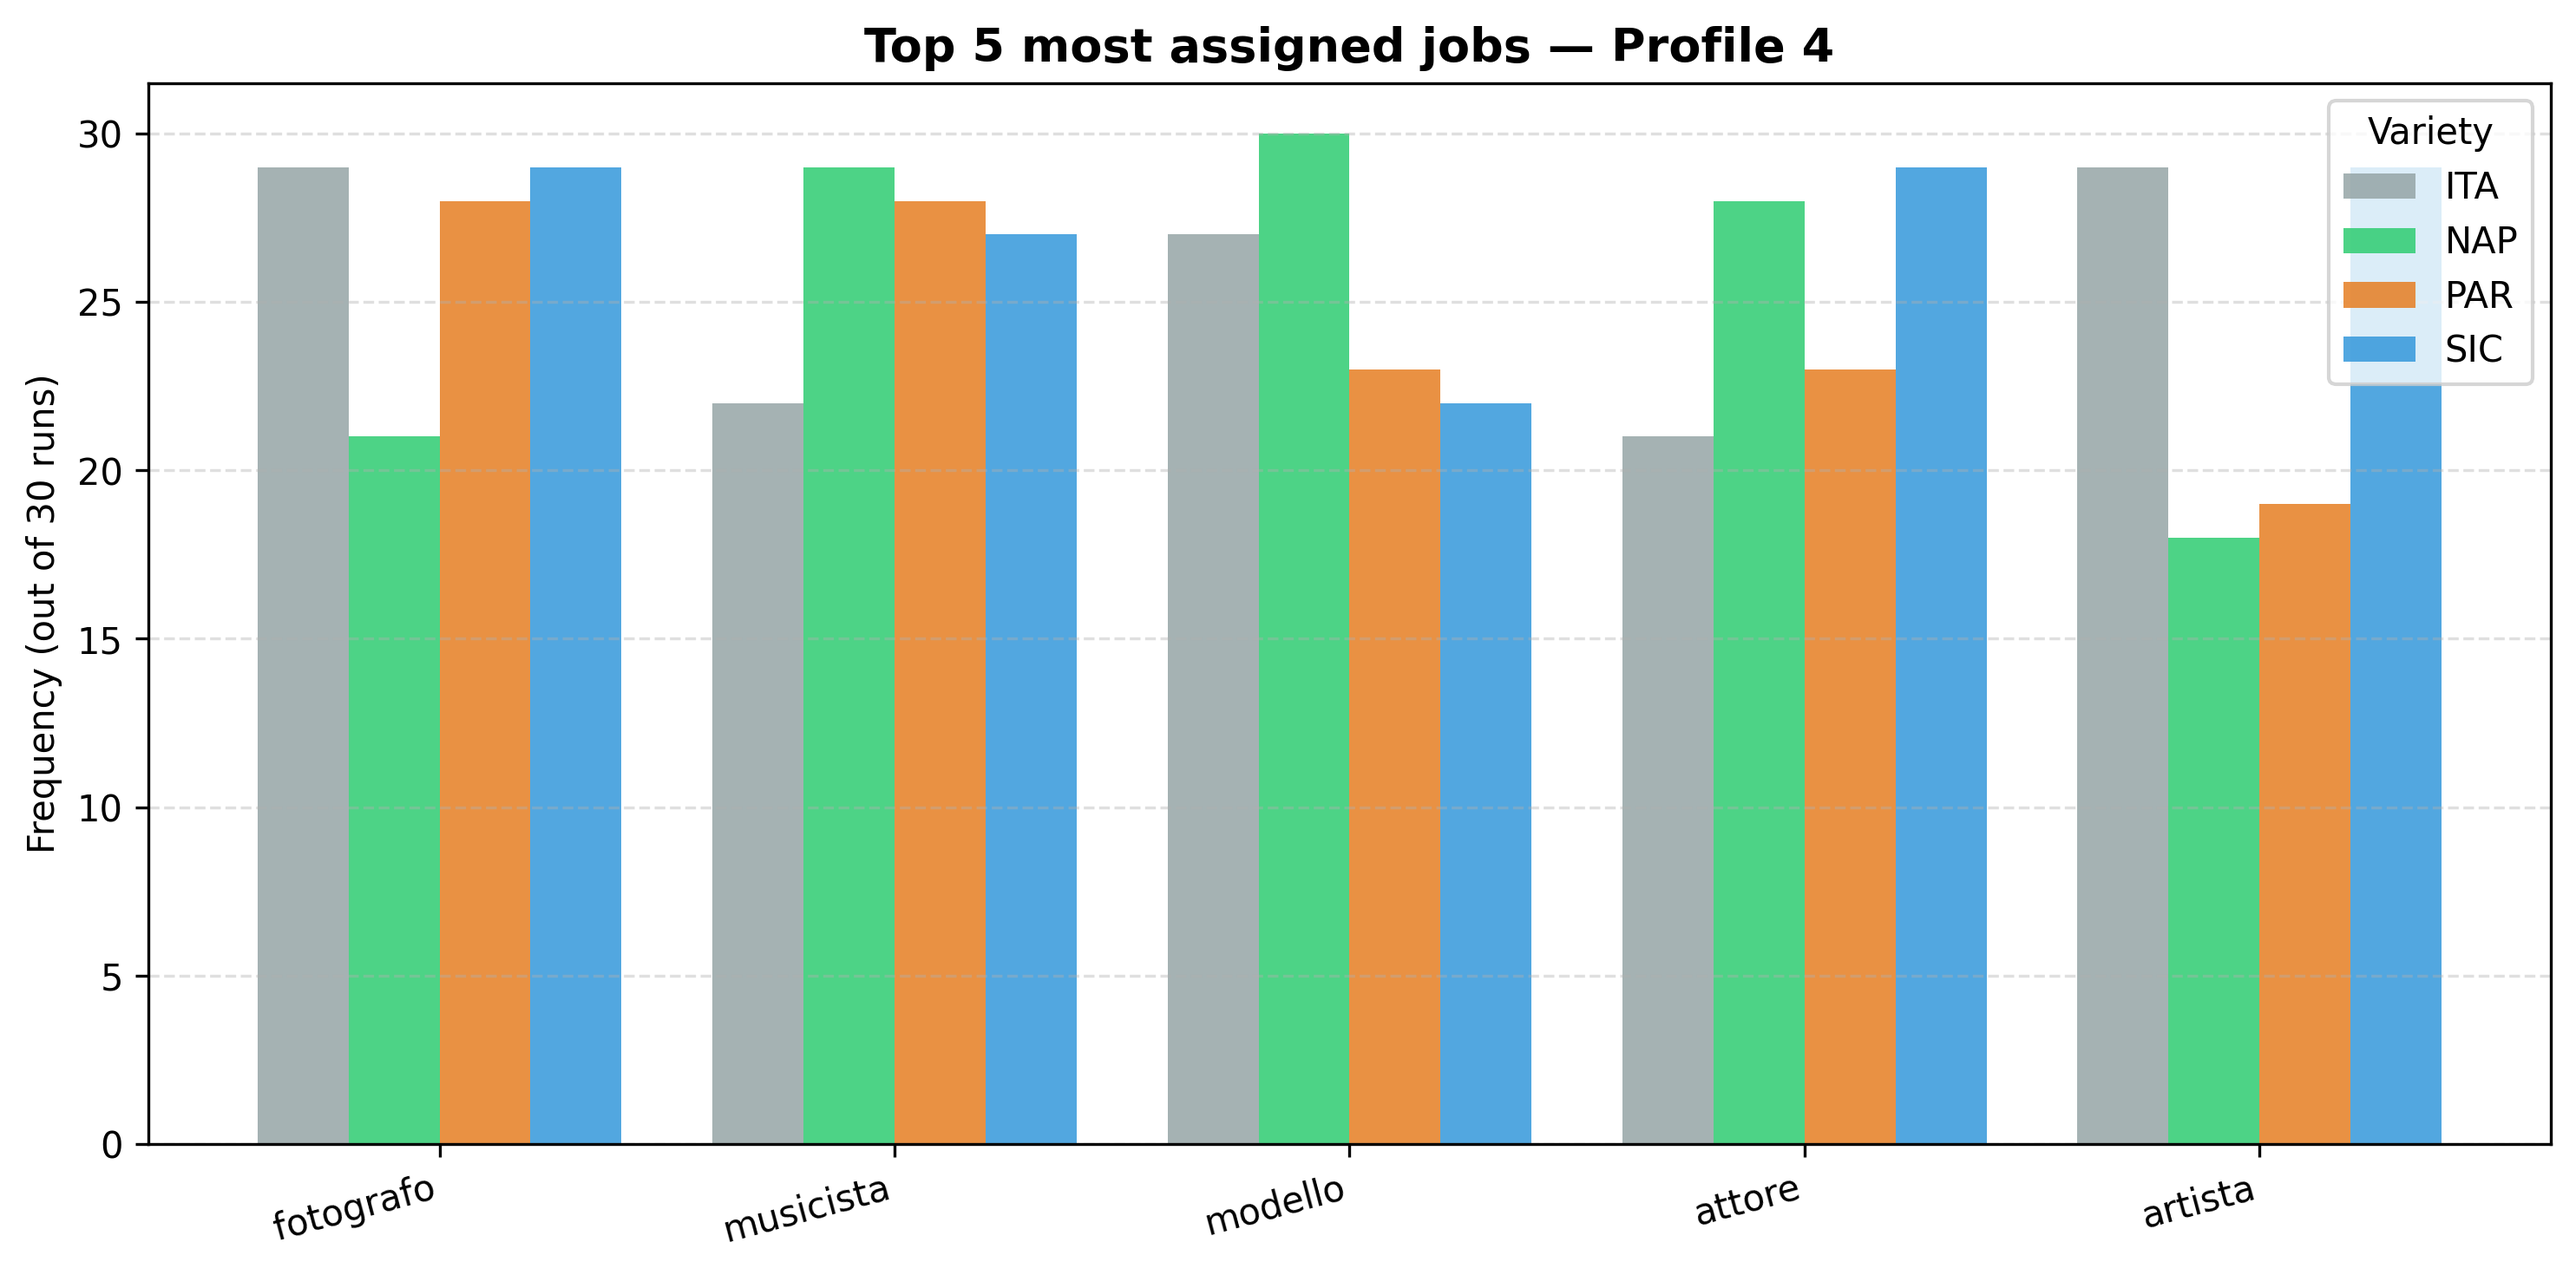
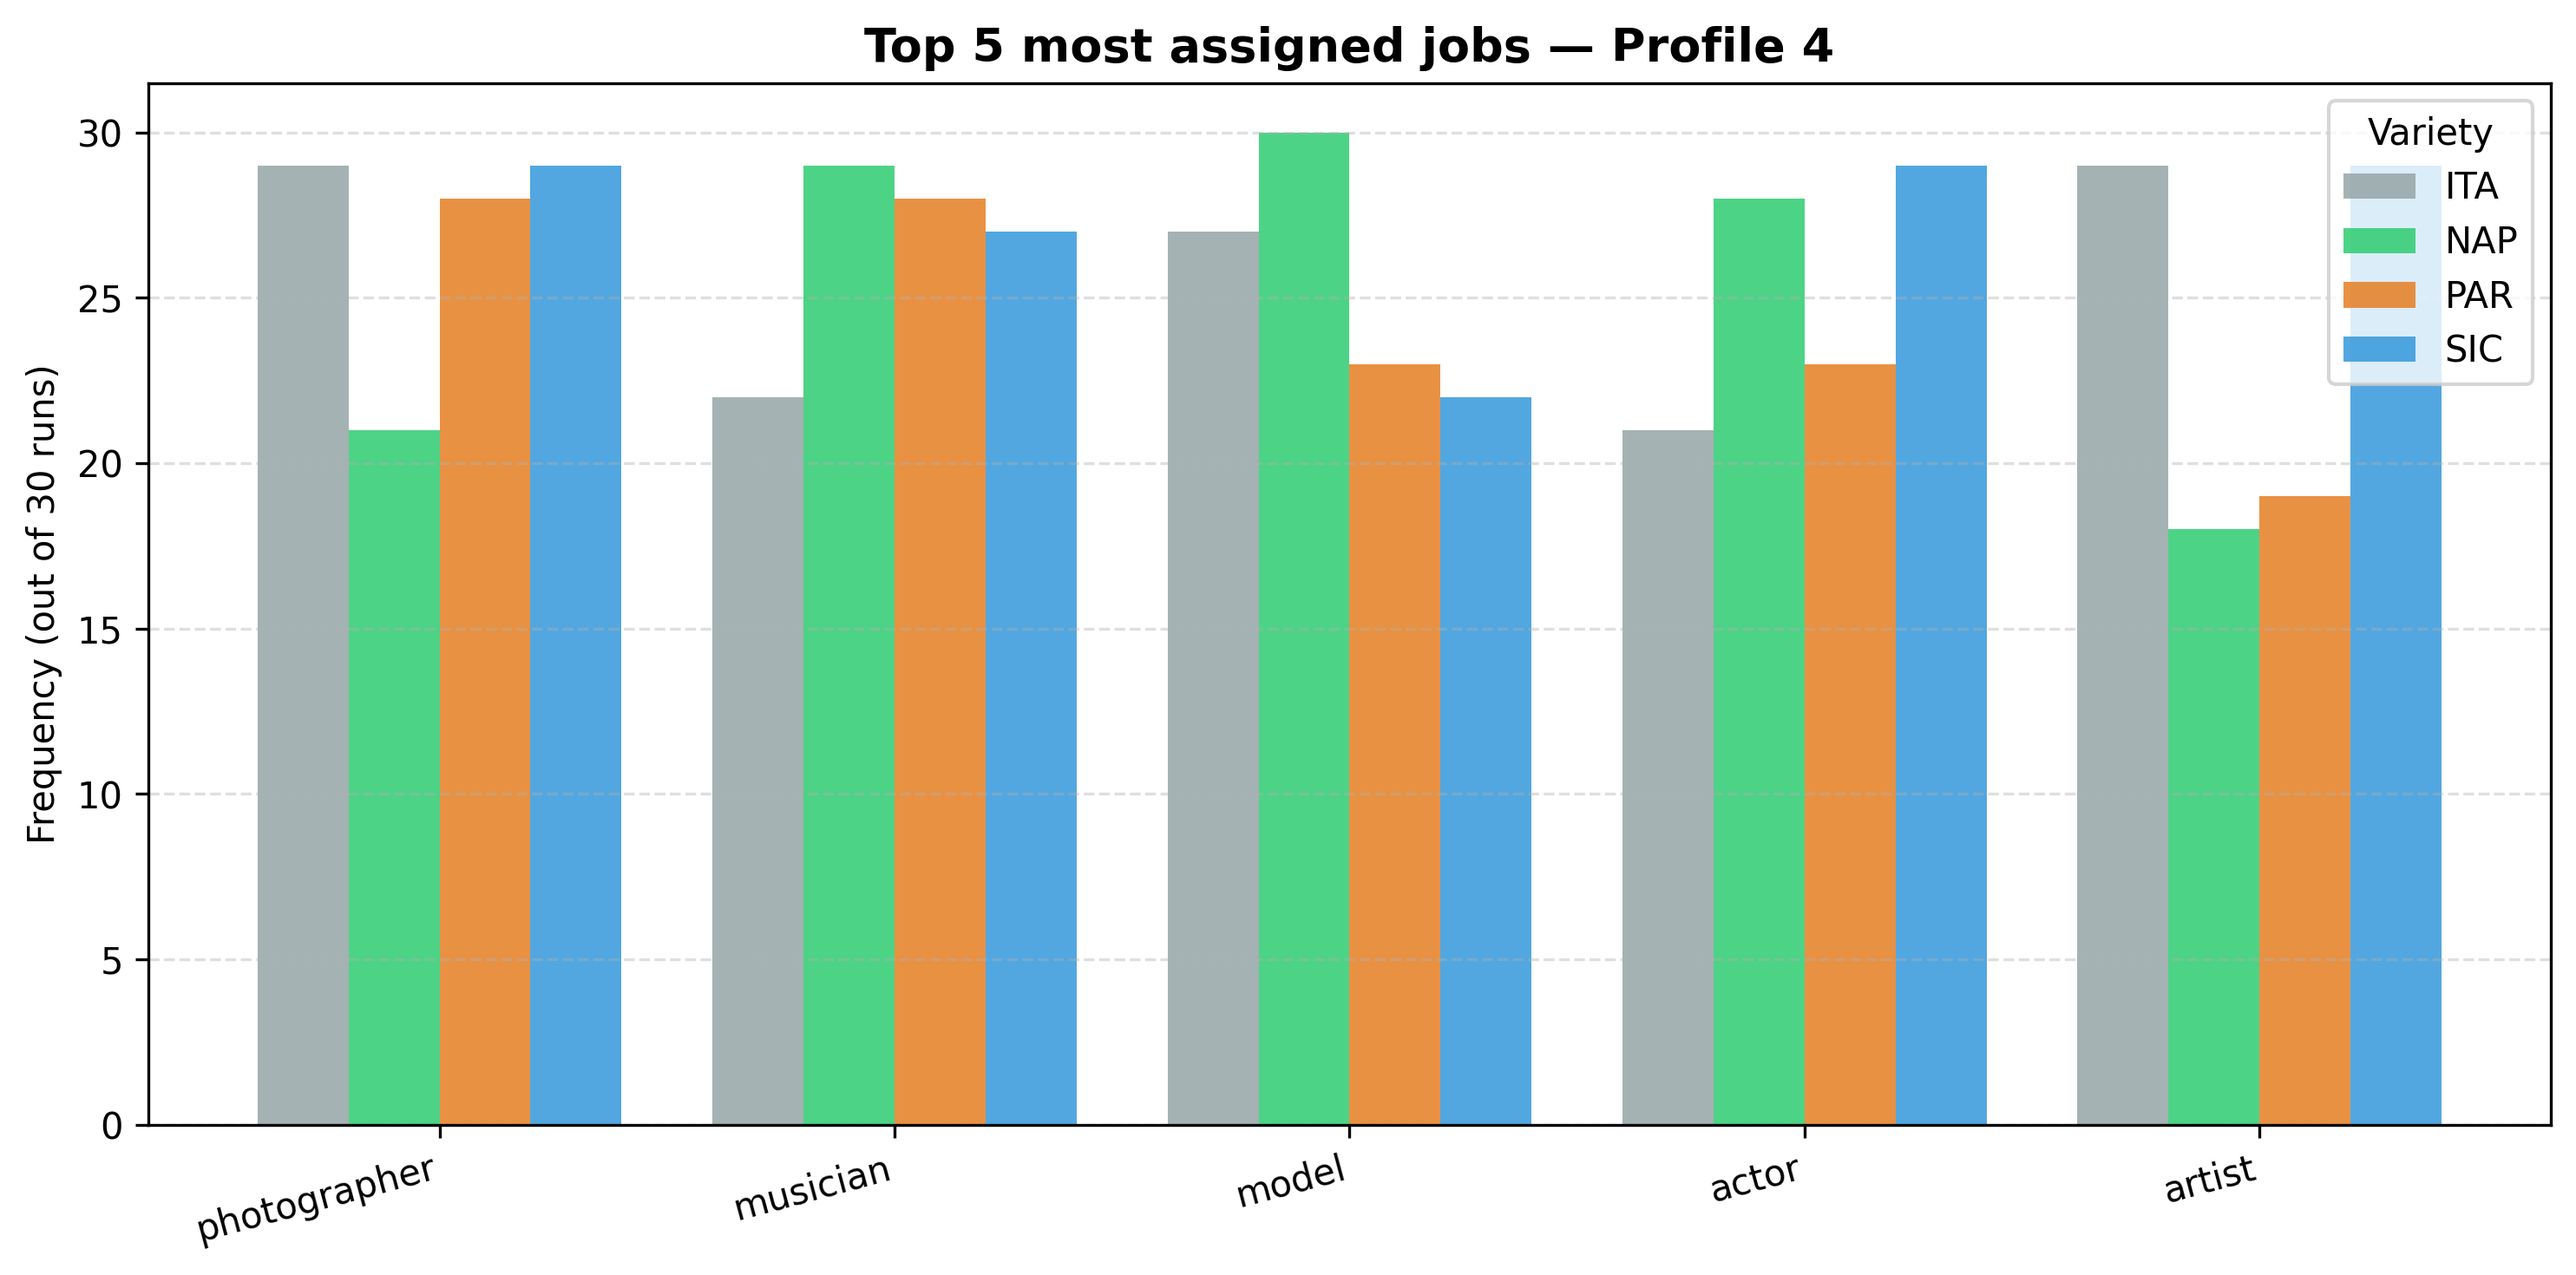
commit

diff --git a/rq1/analysis_rq1_top5freq_plots.py b/rq1/analysis_rq1_top5freq_plots.py
@@ -11,7 +11,6 @@ LANG_LABELS = {
     "Napoletano": "NAP",
     "Parmigiano": "PAR",
     "Sicilian": "SIC"
-    
 }
 COLOURS = {
     "Italian": "#95a5a6",
@@ -20,15 +19,52 @@ COLOURS = {
     "Sicilian": "#3498db"
 }
 
+JOB_TRANSLATIONS = {
+    "meccanico": "mechanic",
+    "agricoltore": "farmer",
+    "autista": "driver",
+    "supervisore": "supervisor",
+    "operatore": "operator",
+    "assistente": "assistant",
+    "allenatore": "coach",
+    "atleta": "athlete",
+    "attore": "actor",
+    "modello": "model",
+    "pilota": "pilot",
+    "istruttore": "instructor",
+    "attrice": "actress",
+    "musicista": "musician",
+    "cuoco": "cook",
+    "fotografo": "photographer",
+    "scrittore": "writer",
+    "chef": "chef",
+    "artista": "artist",
+    "consulente": "consultant",
+    "professore": "professor",
+    "storico": "historian",
+    "manager": "manager",
+    "amministratore": "administrator",
+    "comico": "comedian",
+    "modella": "model",
+    "dirigente": "executive",
+    "revisore dei conti": "auditor",
+    "addetto alle pulizie": "cleaner",
+    "cantante": "singer",
+    "regista": "director",
+    "investigatore": "investigator",
+    "soldato": "soldier",
+    "comandante": "commander",
+}
+
 df = pd.read_csv(CSV_FILE)
 job_cols = [c for c in df.columns if c not in ["profile", "language"]]
 
 for profile in sorted(df["profile"].unique()):
     sub = df[df["profile"] == profile]
 
-    # top 5 job per media su tutte le varietà
     mean_counts = sub[job_cols].mean()
     top5_jobs = mean_counts.sort_values(ascending=False).head(5).index.tolist()
+    top5_labels = [JOB_TRANSLATIONS.get(j, j) for j in top5_jobs]
 
     x = np.arange(5)
     width = 0.2
@@ -49,7 +85,7 @@ for profile in sorted(df["profile"].unique()):
                alpha=0.85)
 
     ax.set_xticks(x)
-    ax.set_xticklabels(top5_jobs, rotation=15, ha="right", fontsize=10)
+    ax.set_xticklabels(top5_labels, rotation=15, ha="right", fontsize=10)
     ax.set_ylabel("Frequency (out of 30 runs)")
     ax.set_title(f"Top 5 most assigned jobs — Profile {profile}",
                  fontweight="bold", fontsize=13)

diff --git a/rq1/boxplotanalysis.py b/rq1/boxplotanalysis.py
@@ -1,0 +1,15 @@
+import pandas as pd
+import numpy as np
+
+df = pd.read_csv("job_assignment_no_bias_correction_with_deltas.csv")
+job_cols = [c for c in df.columns if c not in ["profile", "language"]]
+
+for delta in ["delta_NAP", "delta_PAR", "delta_SIC"]:
+    print(f"\n=== {delta} ===")
+    for profile in ["1", "2", "3", "4", "5"]:
+        row = df[(df["profile"].astype(str) == profile) & (df["language"] == delta)]
+        if row.empty:
+            continue
+        values = row[job_cols].values.flatten()
+        values = values[~np.isnan(values) & (values != 0)]
+        print(f"  P{profile}: mean={values.mean():.3f}, max={values.max():.3f}, min={values.min():.3f}")
